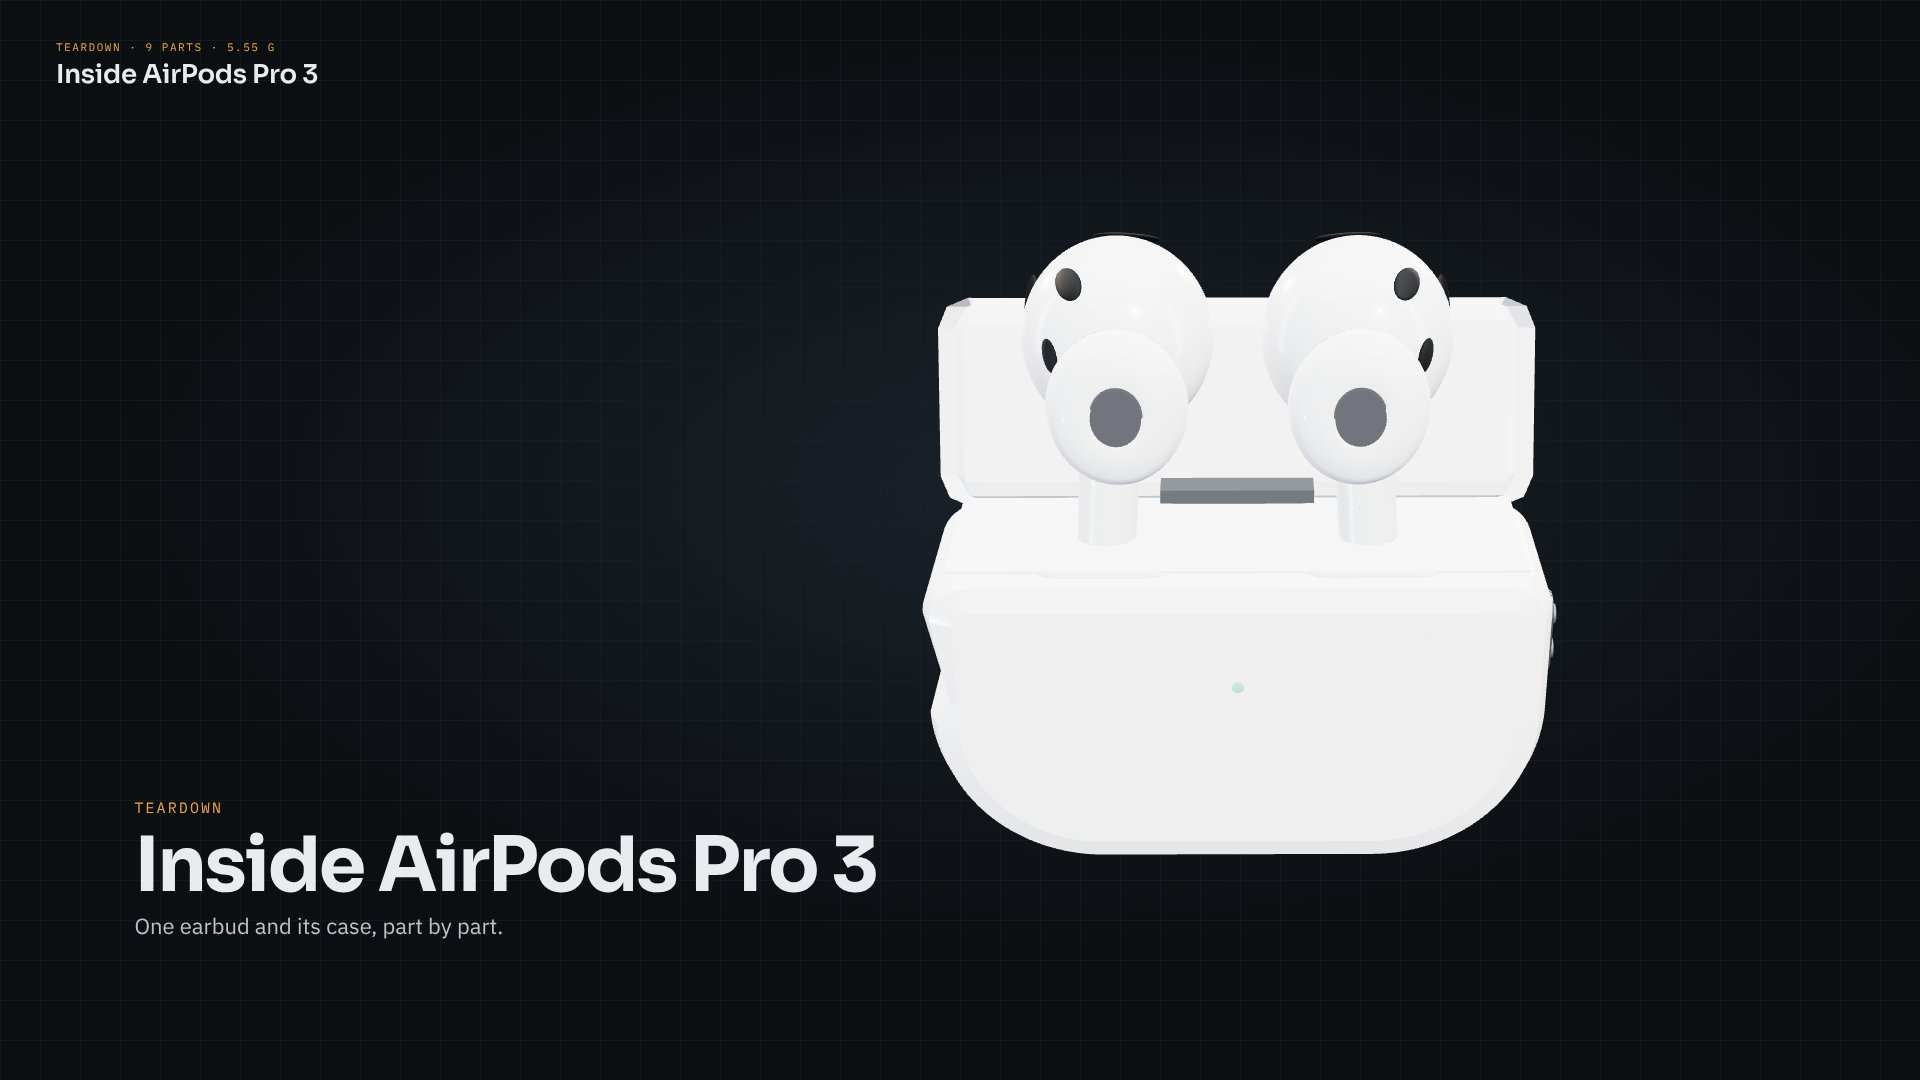
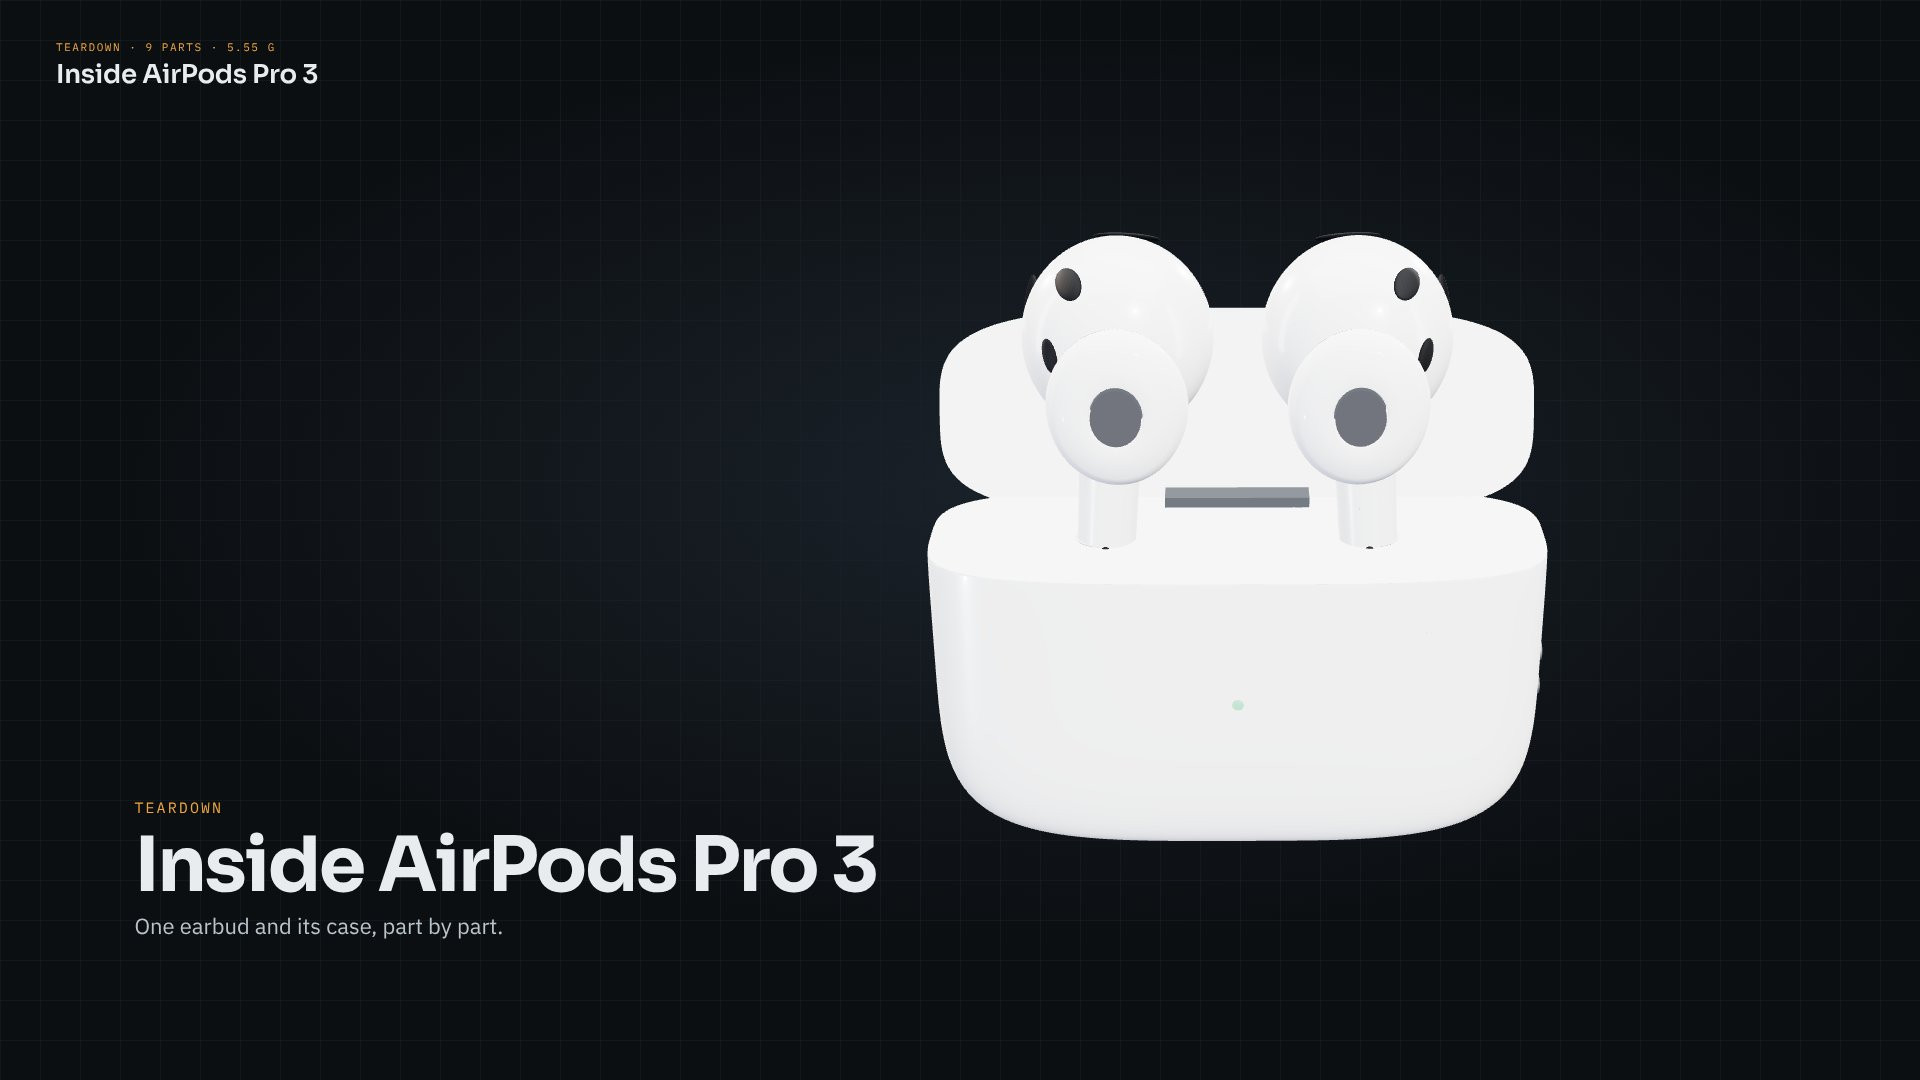
AirPods Pro 3 explorer: rebuild case as a smooth superellipsoid pebble split at the lid line
Claude-Session: https://claude.ai/code/session_01GXcKc2DgGjDxQqSNnxqxZ7

diff --git a/phone-teardown/airpods-pro-3-teardown.html b/phone-teardown/airpods-pro-3-teardown.html
@@ -480,27 +480,50 @@ function caseShape(w, h, rb, rt) {   // rounded rectangle with different bottom 
   s.lineTo(x + rt, y + h); if (rt > 0) s.absarc(x + rt, y + h - rt, rt, Math.PI / 2, Math.PI); else s.lineTo(x, y + h);
   s.lineTo(x, y + rb); s.absarc(x + rb, y + rb, rb, Math.PI, Math.PI * 1.5); return s;
 }
-addPart('case', [76, -4, -2], { az: -0.4, el: 0.3, k: 1.25 }, [CASE.x - 24, CASE.y + 4, CASE.z + 10.9], g => {
-  const w = WHITE(), bv = 3.2, top = CASE.y + BODY_H / 2;
-  mesh(extrude(caseShape(CW - 2 * bv, BODY_H - 2 * bv, 14, 1.5), CD, bv, 48), w, CASE.x, CASE.y, CASE.z, g);
-  const inner = std(0xe9eaec, 0, 0.45);
-  box(CW - 5, 0.3, CD - 5, inner, CASE.x, top + 0.05, CASE.z, g);
-  for (const sx of [-1, 1]) {   // rounded-square cradles the buds sit in
-    const well = mesh(extrude(rrShape(21, 15.5, 6.5), 1.2, 0.5, 24), std(0xd3d6db, 0, 0.5), CASE.x + sx * 13.2, top - 0.35, CASE.z + 0.5, g); well.rotation.x = -Math.PI / 2;
-    const slot = ell(3.0, 0.4, 2.5, std(0x8f949b, 0, 0.6), CASE.x + sx * 13.2, top + 0.3, CASE.z + 0.5, g, 32);
+/* pebble = superellipsoid (squircle front, rounded depth); clampY flattens it at the lid line */
+function pebble(a, b, c, e1, e2, clampLo, clampHi, U = 160, V = 120) {
+  const sp = (w, e) => Math.sign(w) * Math.pow(Math.abs(w), e);
+  const pos = [], idx = [];
+  for (let j = 0; j <= V; j++) {
+    const v = -Math.PI / 2 + Math.PI * j / V;
+    for (let i = 0; i <= U; i++) {
+      const u = -Math.PI + 2 * Math.PI * i / U;
+      const x = a * sp(Math.cos(v), e1) * sp(Math.cos(u), e2);
+      let y = b * sp(Math.sin(v), e1);
+      const z = c * sp(Math.cos(v), e1) * sp(Math.sin(u), e2);
+      y = Math.min(Math.max(y, clampLo), clampHi);
+      pos.push(x, y, z);
+    }
   }
-  box(16, 2.2, 3.2, SILVER(), CASE.x, top + 0.6, CASE.z - CD / 2 + 2.4, g);   // hinge
-  // lid, hinged at the back top edge and swung open
-  const hinge = new THREE.Group(); hinge.position.set(CASE.x, top, CASE.z - CD / 2 + 1.2); hinge.rotation.x = -1.92; g.add(hinge);
-  mesh(extrude(caseShape(CW - 2 * bv, LID_H - 2 * bv, 1.5, 12), CD, bv, 48), w, 0, LID_H / 2, CD / 2 - 1.2, hinge);
-  box(CW - 5, 0.3, CD - 5, inner, 0, 0.1, CD / 2 - 1.2, hinge);
-  ell(0.6, 0.6, 0.2, std(0x1a1d22, 0.2, 0.3, { emissive: 0x2fbf5a, emissiveIntensity: 1.1 }), CASE.x, CASE.y + 5, CASE.z + CD / 2 + 0.02, g, 24);
+  for (let j = 0; j < V; j++) for (let i = 0; i < U; i++) {
+    const p = j * (U + 1) + i, q = p + U + 1;
+    idx.push(p, q, p + 1, p + 1, q, q + 1);
+  }
+  const g = new THREE.BufferGeometry();
+  g.setAttribute('position', new THREE.Float32BufferAttribute(pos, 3)); g.setIndex(idx); g.computeVertexNormals();
+  return g;
+}
+const PA = CW / 2, PB = (BODY_H + LID_H) / 2, PC = CD / 2, SEAM = PB - LID_H, E1 = 0.42, E2 = 0.55;
+addPart('case', [76, -4, -2], { az: -0.4, el: 0.3, k: 1.25 }, [CASE.x - 24, CASE.y + 4, CASE.z + PC], g => {
+  const w = WHITE(), cy = CASE.y + BODY_H / 2 - SEAM, top = CASE.y + BODY_H / 2;   // pebble centre so the seam sits at the body top
+  mesh(pebble(PA, PB, PC, E1, E2, -PB, SEAM), w, CASE.x, cy, CASE.z, g);
+  const inner = std(0xeceef0, 0, 0.42);
+  for (const sx of [-1, 1]) {   // rounded-square cradles the buds sit in
+    const well = mesh(extrude(rrShape(20, 13.5, 6), 1.0, 0.45, 24), std(0xd2d5da, 0, 0.55), CASE.x + sx * 13.4, top - 0.62, CASE.z + 0.6, g); well.rotation.x = -Math.PI / 2;
+    ell(2.9, 0.35, 2.4, std(0x9a9fa6, 0, 0.6), CASE.x + sx * 13.4, top + 0.1, CASE.z + 0.6, g, 32);
+  }
+  box(15, 1.6, 2.6, SILVER(), CASE.x, top + 0.3, CASE.z - PC + 3.2, g);   // hinge
+  // lid: the top slice of the same pebble, hinged at the back and swung open
+  const hinge = new THREE.Group(); hinge.position.set(CASE.x, top, CASE.z - PC + 2.0); hinge.rotation.x = -1.92; g.add(hinge);
+  const lidGeo = pebble(PA, PB, PC, E1, E2, SEAM, PB); lidGeo.translate(0, -SEAM, PC - 2.0);
+  mesh(lidGeo, w, 0, 0.05, 0, hinge);
+  ell(0.6, 0.6, 0.2, std(0x1a1d22, 0.2, 0.3, { emissive: 0x2fbf5a, emissiveIntensity: 1.1 }), CASE.x, CASE.y + 3, CASE.z + PC - 0.02, g, 24);
   // lanyard loop on the right side
-  const lp = mesh(extrude(rrShape(3.6, 8.4, 1.8), 1.0, 0.3, 16), SILVER(), CASE.x + CW / 2 + 0.2, CASE.y + 7, CASE.z + 3, g); lp.rotation.y = Math.PI / 2;
-  for (const dy of [2, -2]) { const h = mesh(cyl(1.0, 1.2, 24), std(0x2a2c30, 0.5, 0.4), CASE.x + CW / 2 + 0.5, CASE.y + 7 + dy, CASE.z + 3, g); h.rotation.y = Math.PI / 2; }
+  const lp = mesh(extrude(rrShape(3.6, 8.4, 1.8), 1.0, 0.3, 16), SILVER(), CASE.x + PA - 0.35, CASE.y + 1, CASE.z, g); lp.rotation.y = Math.PI / 2;
+  for (const dy of [2, -2]) { const h = mesh(cyl(1.0, 1.2, 24), std(0x2a2c30, 0.5, 0.4), CASE.x + PA - 0.1, CASE.y + 1 + dy, CASE.z, g); h.rotation.y = Math.PI / 2; }
   // USB-C and speaker holes underneath
-  const port = mesh(extrude(rrShape(8.9, 3.0, 1.5), 1.0, 0.1, 16), std(0x2a2c30, 0.6, 0.35), CASE.x, CASE.y - BODY_H / 2 - 0.2, CASE.z, g); port.rotation.x = Math.PI / 2;
-  for (const i of [-3, -2, 2, 3]) yCyl(0.5, 0.6, GRILLE(), CASE.x + i * 2.6, CASE.y - BODY_H / 2 - 0.15, CASE.z + 1, g, 16);
+  const port = mesh(extrude(rrShape(8.9, 3.0, 1.5), 1.0, 0.1, 16), std(0x2a2c30, 0.6, 0.35), CASE.x, CASE.y - BODY_H / 2 + 0.25, CASE.z, g); port.rotation.x = Math.PI / 2;
+  for (const i of [-3, -2, 2, 3]) yCyl(0.5, 0.6, GRILLE(), CASE.x + i * 2.6, CASE.y - BODY_H / 2 + 0.35, CASE.z + 1, g, 16);
   // left earbud (mirror of the right one) floating above the open case
   const left = new THREE.Group(); budOuter(left, true);
   left.scale.set(-1, 1, 1); left.position.set(CASE.x * 2 - 0.0, 0, 0); left.rotation.set(0, 0, 0); g.add(left);

diff --git a/phone-teardown/build-airpods.py b/phone-teardown/build-airpods.py
@@ -193,27 +193,50 @@ function caseShape(w, h, rb, rt) {   // rounded rectangle with different bottom 
   s.lineTo(x + rt, y + h); if (rt > 0) s.absarc(x + rt, y + h - rt, rt, Math.PI / 2, Math.PI); else s.lineTo(x, y + h);
   s.lineTo(x, y + rb); s.absarc(x + rb, y + rb, rb, Math.PI, Math.PI * 1.5); return s;
 }
-addPart('case', [76, -4, -2], { az: -0.4, el: 0.3, k: 1.25 }, [CASE.x - 24, CASE.y + 4, CASE.z + 10.9], g => {
-  const w = WHITE(), bv = 3.2, top = CASE.y + BODY_H / 2;
-  mesh(extrude(caseShape(CW - 2 * bv, BODY_H - 2 * bv, 14, 1.5), CD, bv, 48), w, CASE.x, CASE.y, CASE.z, g);
-  const inner = std(0xe9eaec, 0, 0.45);
-  box(CW - 5, 0.3, CD - 5, inner, CASE.x, top + 0.05, CASE.z, g);
-  for (const sx of [-1, 1]) {   // rounded-square cradles the buds sit in
-    const well = mesh(extrude(rrShape(21, 15.5, 6.5), 1.2, 0.5, 24), std(0xd3d6db, 0, 0.5), CASE.x + sx * 13.2, top - 0.35, CASE.z + 0.5, g); well.rotation.x = -Math.PI / 2;
-    const slot = ell(3.0, 0.4, 2.5, std(0x8f949b, 0, 0.6), CASE.x + sx * 13.2, top + 0.3, CASE.z + 0.5, g, 32);
+/* pebble = superellipsoid (squircle front, rounded depth); clampY flattens it at the lid line */
+function pebble(a, b, c, e1, e2, clampLo, clampHi, U = 160, V = 120) {
+  const sp = (w, e) => Math.sign(w) * Math.pow(Math.abs(w), e);
+  const pos = [], idx = [];
+  for (let j = 0; j <= V; j++) {
+    const v = -Math.PI / 2 + Math.PI * j / V;
+    for (let i = 0; i <= U; i++) {
+      const u = -Math.PI + 2 * Math.PI * i / U;
+      const x = a * sp(Math.cos(v), e1) * sp(Math.cos(u), e2);
+      let y = b * sp(Math.sin(v), e1);
+      const z = c * sp(Math.cos(v), e1) * sp(Math.sin(u), e2);
+      y = Math.min(Math.max(y, clampLo), clampHi);
+      pos.push(x, y, z);
+    }
   }
-  box(16, 2.2, 3.2, SILVER(), CASE.x, top + 0.6, CASE.z - CD / 2 + 2.4, g);   // hinge
-  // lid, hinged at the back top edge and swung open
-  const hinge = new THREE.Group(); hinge.position.set(CASE.x, top, CASE.z - CD / 2 + 1.2); hinge.rotation.x = -1.92; g.add(hinge);
-  mesh(extrude(caseShape(CW - 2 * bv, LID_H - 2 * bv, 1.5, 12), CD, bv, 48), w, 0, LID_H / 2, CD / 2 - 1.2, hinge);
-  box(CW - 5, 0.3, CD - 5, inner, 0, 0.1, CD / 2 - 1.2, hinge);
-  ell(0.6, 0.6, 0.2, std(0x1a1d22, 0.2, 0.3, { emissive: 0x2fbf5a, emissiveIntensity: 1.1 }), CASE.x, CASE.y + 5, CASE.z + CD / 2 + 0.02, g, 24);
+  for (let j = 0; j < V; j++) for (let i = 0; i < U; i++) {
+    const p = j * (U + 1) + i, q = p + U + 1;
+    idx.push(p, q, p + 1, p + 1, q, q + 1);
+  }
+  const g = new THREE.BufferGeometry();
+  g.setAttribute('position', new THREE.Float32BufferAttribute(pos, 3)); g.setIndex(idx); g.computeVertexNormals();
+  return g;
+}
+const PA = CW / 2, PB = (BODY_H + LID_H) / 2, PC = CD / 2, SEAM = PB - LID_H, E1 = 0.42, E2 = 0.55;
+addPart('case', [76, -4, -2], { az: -0.4, el: 0.3, k: 1.25 }, [CASE.x - 24, CASE.y + 4, CASE.z + PC], g => {
+  const w = WHITE(), cy = CASE.y + BODY_H / 2 - SEAM, top = CASE.y + BODY_H / 2;   // pebble centre so the seam sits at the body top
+  mesh(pebble(PA, PB, PC, E1, E2, -PB, SEAM), w, CASE.x, cy, CASE.z, g);
+  const inner = std(0xeceef0, 0, 0.42);
+  for (const sx of [-1, 1]) {   // rounded-square cradles the buds sit in
+    const well = mesh(extrude(rrShape(20, 13.5, 6), 1.0, 0.45, 24), std(0xd2d5da, 0, 0.55), CASE.x + sx * 13.4, top - 0.62, CASE.z + 0.6, g); well.rotation.x = -Math.PI / 2;
+    ell(2.9, 0.35, 2.4, std(0x9a9fa6, 0, 0.6), CASE.x + sx * 13.4, top + 0.1, CASE.z + 0.6, g, 32);
+  }
+  box(15, 1.6, 2.6, SILVER(), CASE.x, top + 0.3, CASE.z - PC + 3.2, g);   // hinge
+  // lid: the top slice of the same pebble, hinged at the back and swung open
+  const hinge = new THREE.Group(); hinge.position.set(CASE.x, top, CASE.z - PC + 2.0); hinge.rotation.x = -1.92; g.add(hinge);
+  const lidGeo = pebble(PA, PB, PC, E1, E2, SEAM, PB); lidGeo.translate(0, -SEAM, PC - 2.0);
+  mesh(lidGeo, w, 0, 0.05, 0, hinge);
+  ell(0.6, 0.6, 0.2, std(0x1a1d22, 0.2, 0.3, { emissive: 0x2fbf5a, emissiveIntensity: 1.1 }), CASE.x, CASE.y + 3, CASE.z + PC - 0.02, g, 24);
   // lanyard loop on the right side
-  const lp = mesh(extrude(rrShape(3.6, 8.4, 1.8), 1.0, 0.3, 16), SILVER(), CASE.x + CW / 2 + 0.2, CASE.y + 7, CASE.z + 3, g); lp.rotation.y = Math.PI / 2;
-  for (const dy of [2, -2]) { const h = mesh(cyl(1.0, 1.2, 24), std(0x2a2c30, 0.5, 0.4), CASE.x + CW / 2 + 0.5, CASE.y + 7 + dy, CASE.z + 3, g); h.rotation.y = Math.PI / 2; }
+  const lp = mesh(extrude(rrShape(3.6, 8.4, 1.8), 1.0, 0.3, 16), SILVER(), CASE.x + PA - 0.35, CASE.y + 1, CASE.z, g); lp.rotation.y = Math.PI / 2;
+  for (const dy of [2, -2]) { const h = mesh(cyl(1.0, 1.2, 24), std(0x2a2c30, 0.5, 0.4), CASE.x + PA - 0.1, CASE.y + 1 + dy, CASE.z, g); h.rotation.y = Math.PI / 2; }
   // USB-C and speaker holes underneath
-  const port = mesh(extrude(rrShape(8.9, 3.0, 1.5), 1.0, 0.1, 16), std(0x2a2c30, 0.6, 0.35), CASE.x, CASE.y - BODY_H / 2 - 0.2, CASE.z, g); port.rotation.x = Math.PI / 2;
-  for (const i of [-3, -2, 2, 3]) yCyl(0.5, 0.6, GRILLE(), CASE.x + i * 2.6, CASE.y - BODY_H / 2 - 0.15, CASE.z + 1, g, 16);
+  const port = mesh(extrude(rrShape(8.9, 3.0, 1.5), 1.0, 0.1, 16), std(0x2a2c30, 0.6, 0.35), CASE.x, CASE.y - BODY_H / 2 + 0.25, CASE.z, g); port.rotation.x = Math.PI / 2;
+  for (const i of [-3, -2, 2, 3]) yCyl(0.5, 0.6, GRILLE(), CASE.x + i * 2.6, CASE.y - BODY_H / 2 + 0.35, CASE.z + 1, g, 16);
   // left earbud (mirror of the right one) floating above the open case
   const left = new THREE.Group(); budOuter(left, true);
   left.scale.set(-1, 1, 1); left.position.set(CASE.x * 2 - 0.0, 0, 0); left.rotation.set(0, 0, 0); g.add(left);
